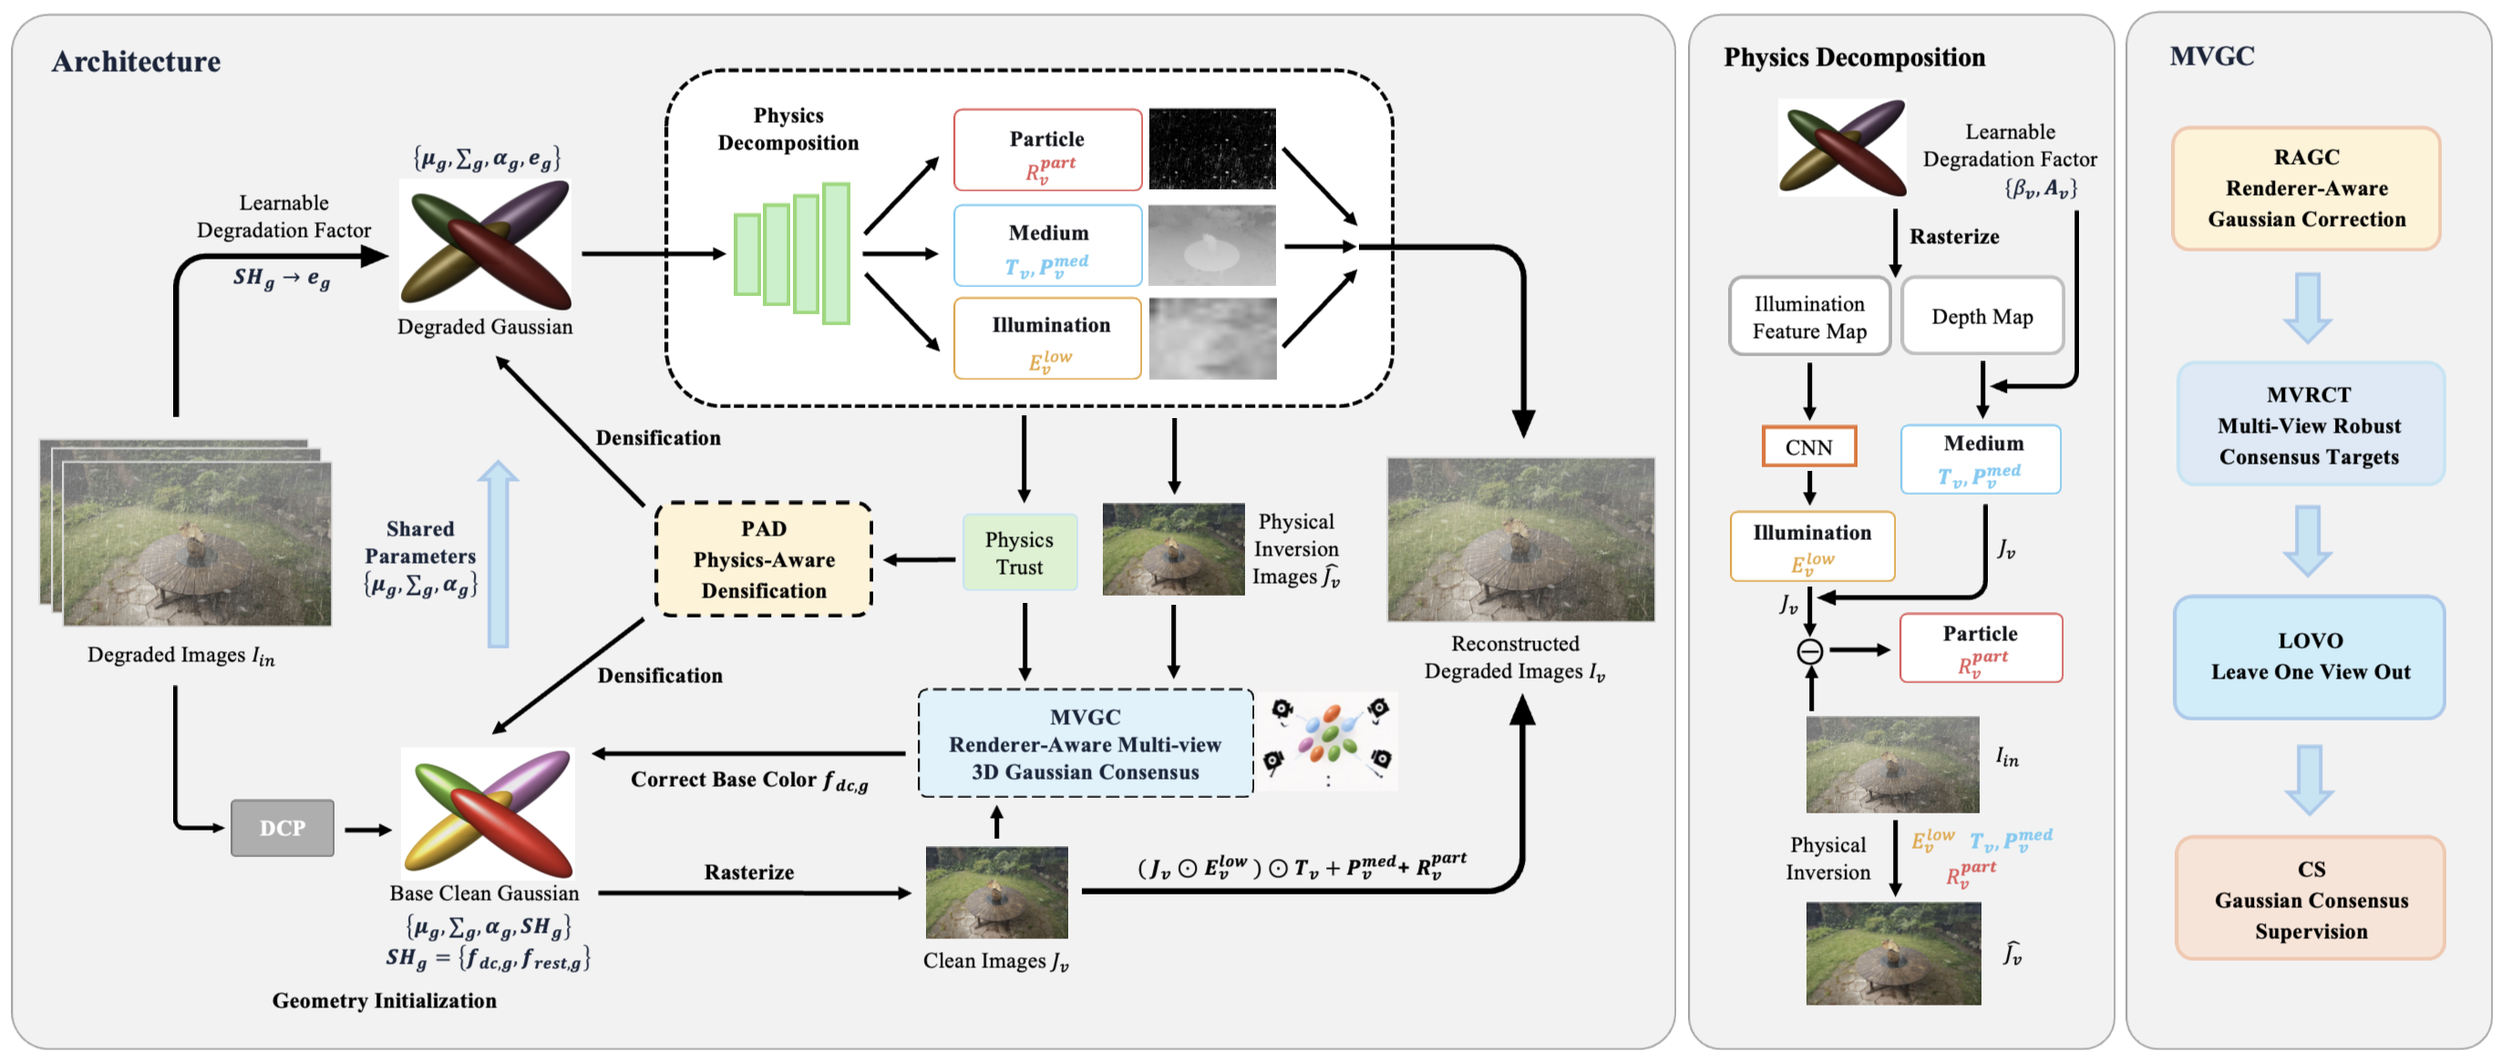
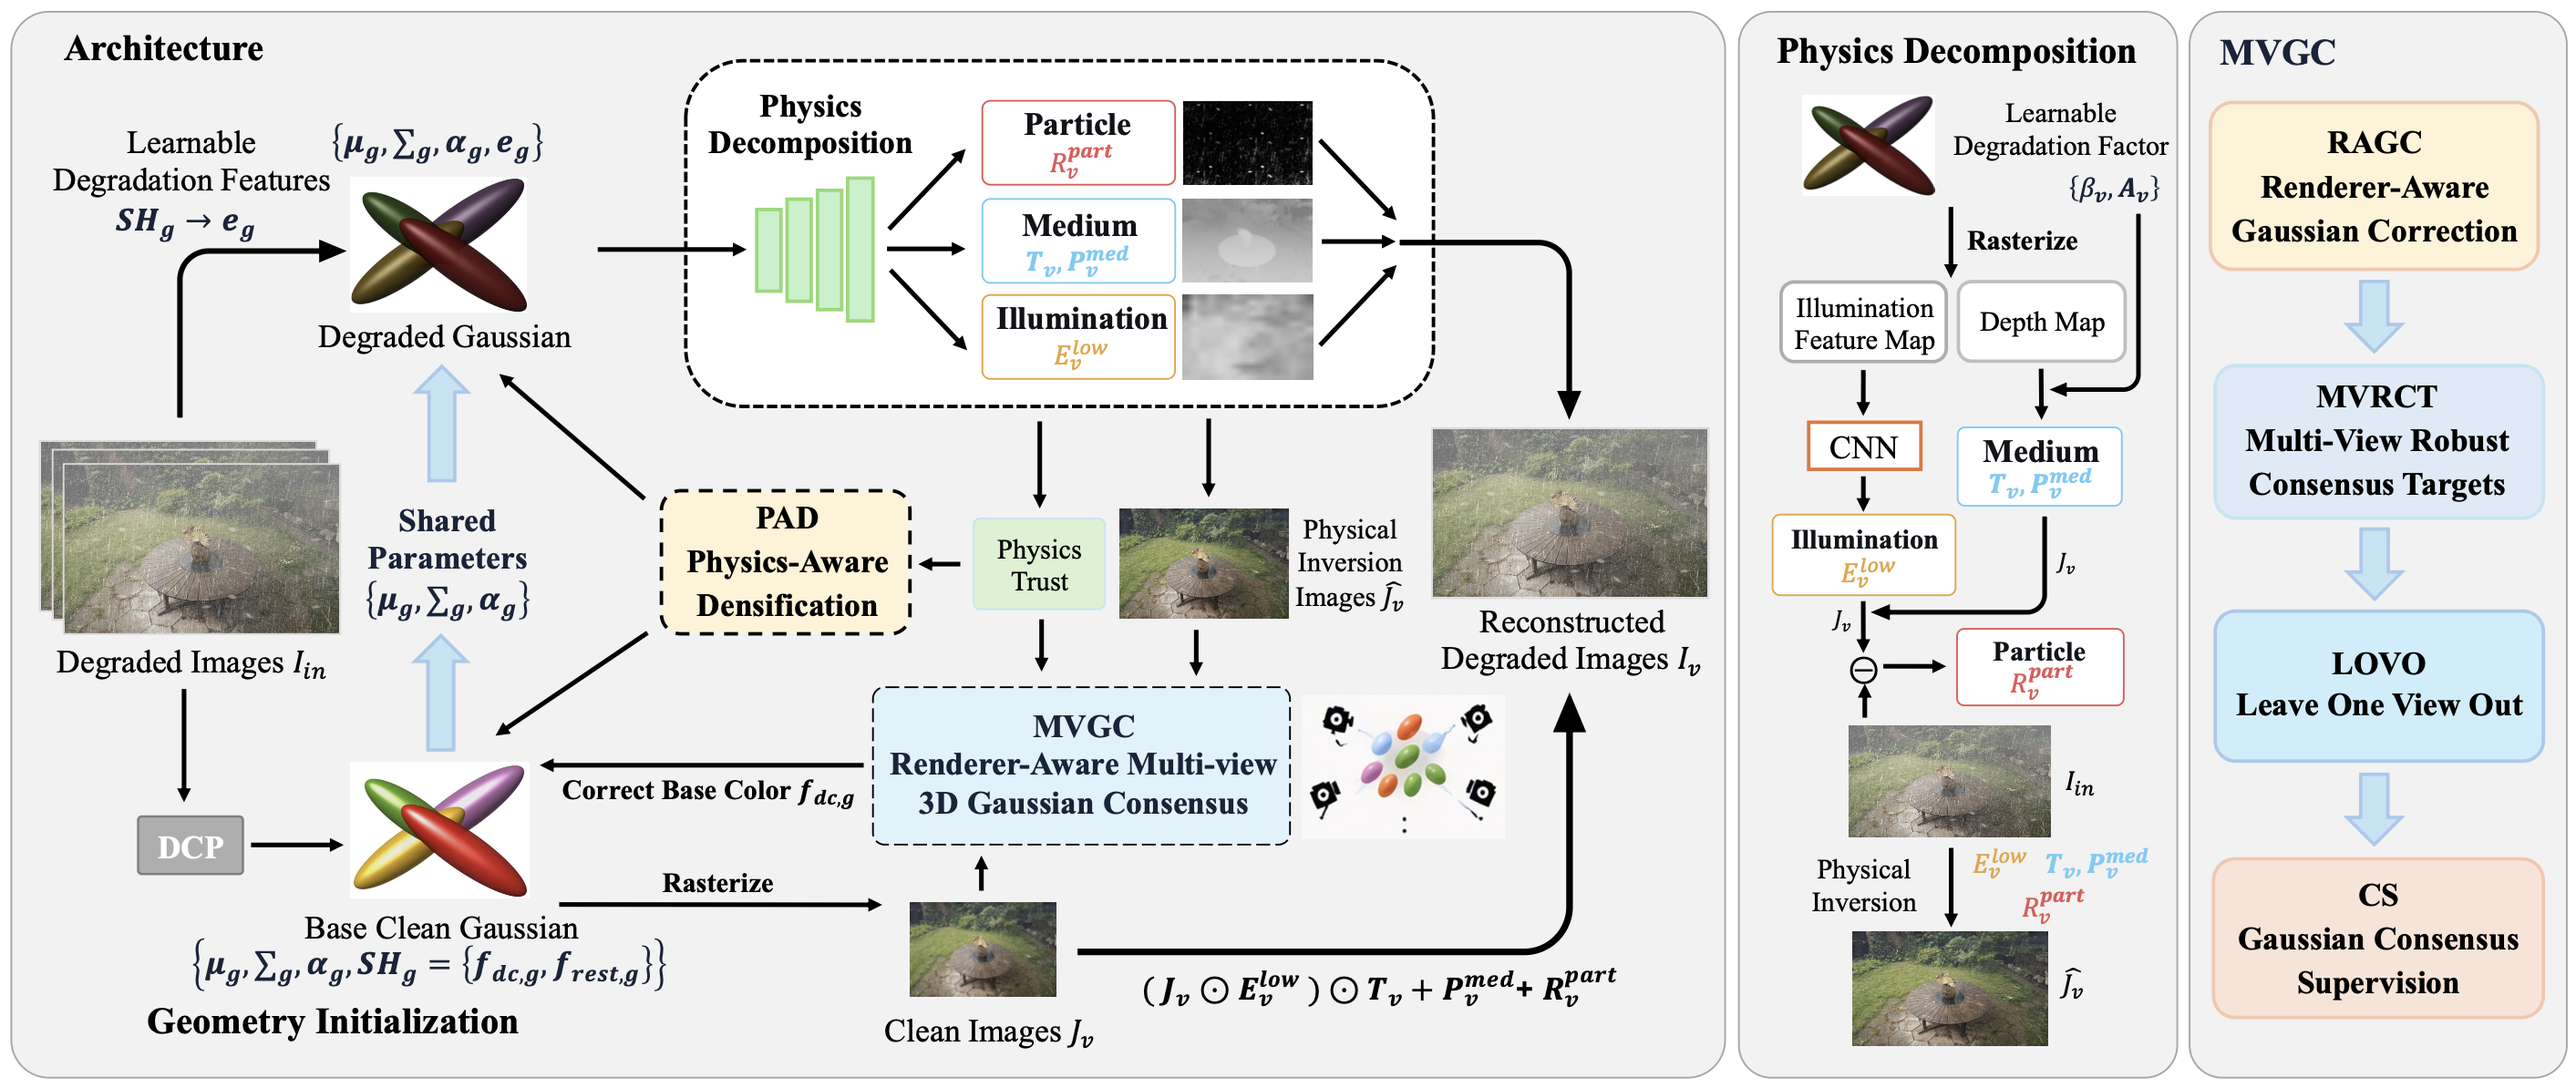
Update ConsenSplat pipeline figure and refresh image reference

diff --git a/robust-3dgs/index.html b/robust-3dgs/index.html
@@ -232,7 +232,7 @@
         <section>
             <h2>Method</h2>
             <figure class="figure">
-                <img src="pipeline.png" alt="ConsenSplat pipeline with physical decomposition, Renderer-aware Multi-view Gaussian Consensus, and Physics-aware Densification" width="2744" height="1166" loading="lazy">
+                <img src="pipeline.png?v=aaa1832" alt="ConsenSplat pipeline with physical decomposition, Renderer-aware Multi-view Gaussian Consensus, and Physics-aware Densification" width="2826" height="1194" loading="lazy">
             </figure>
         </section>
 
